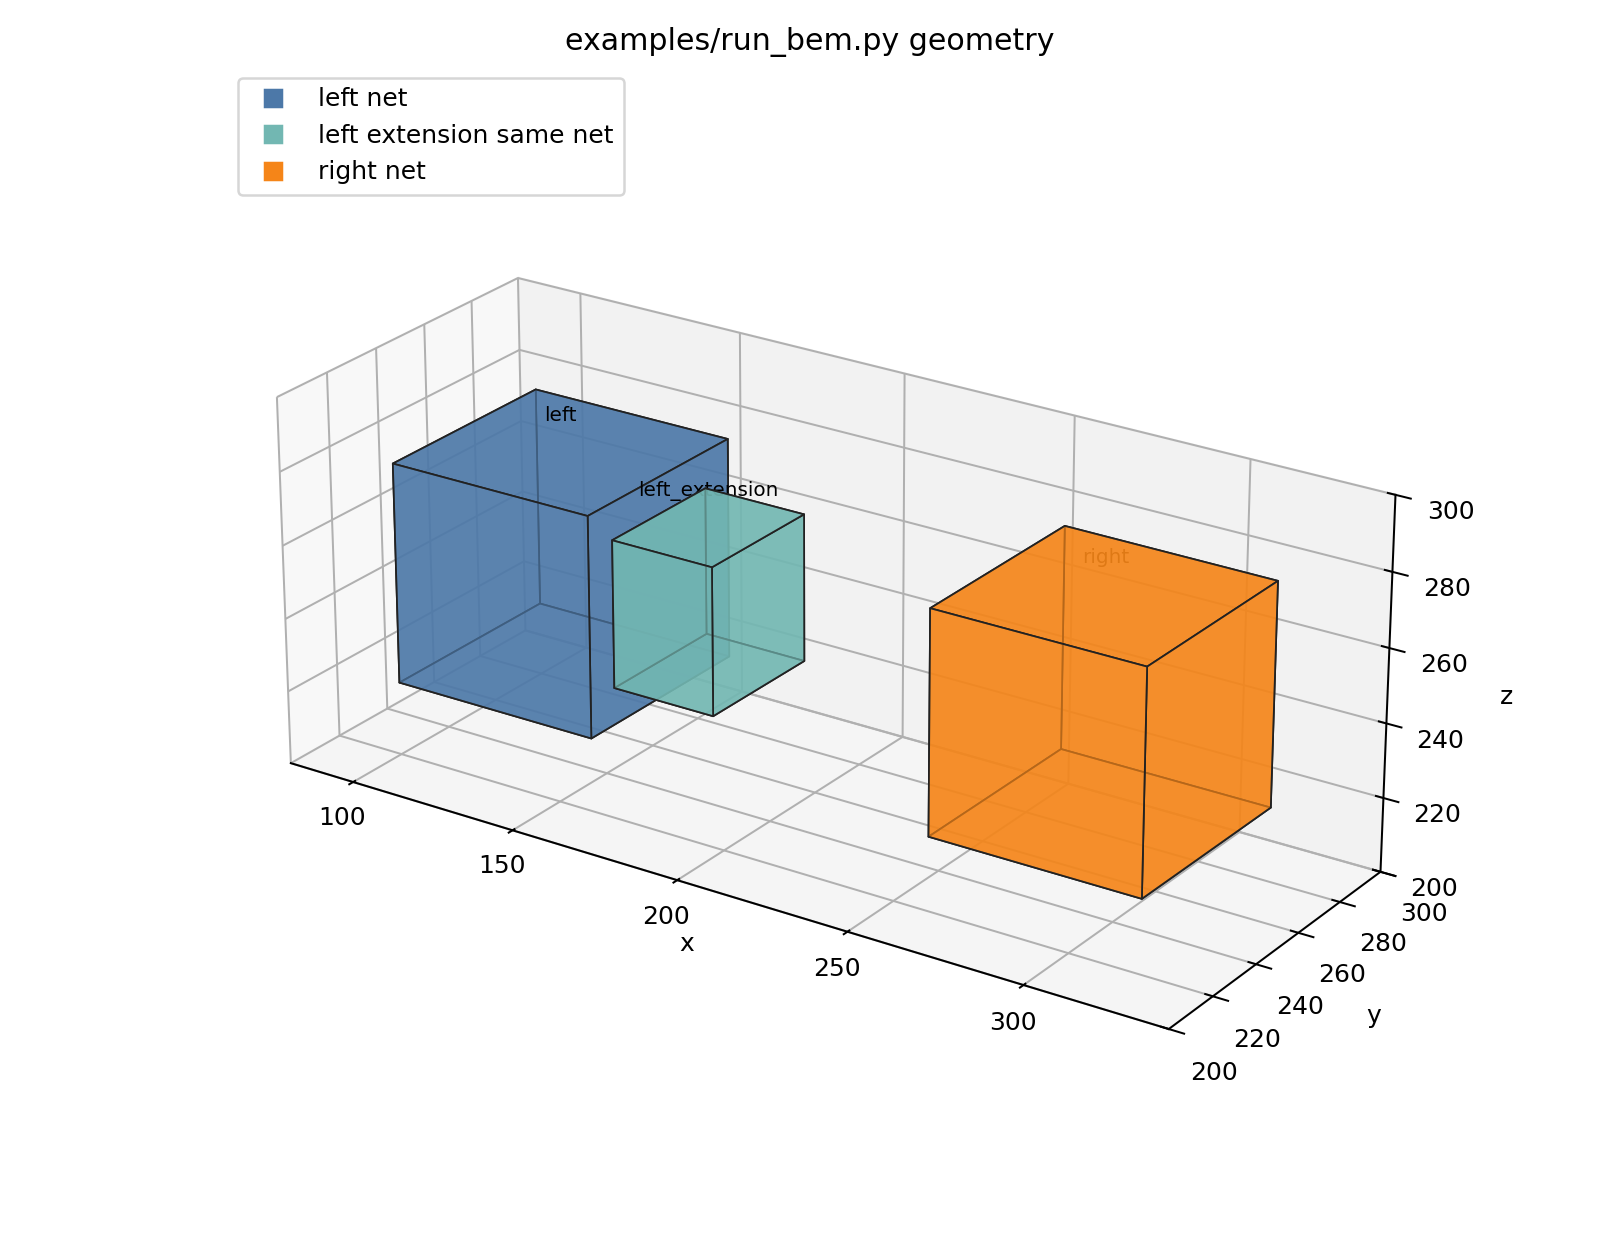
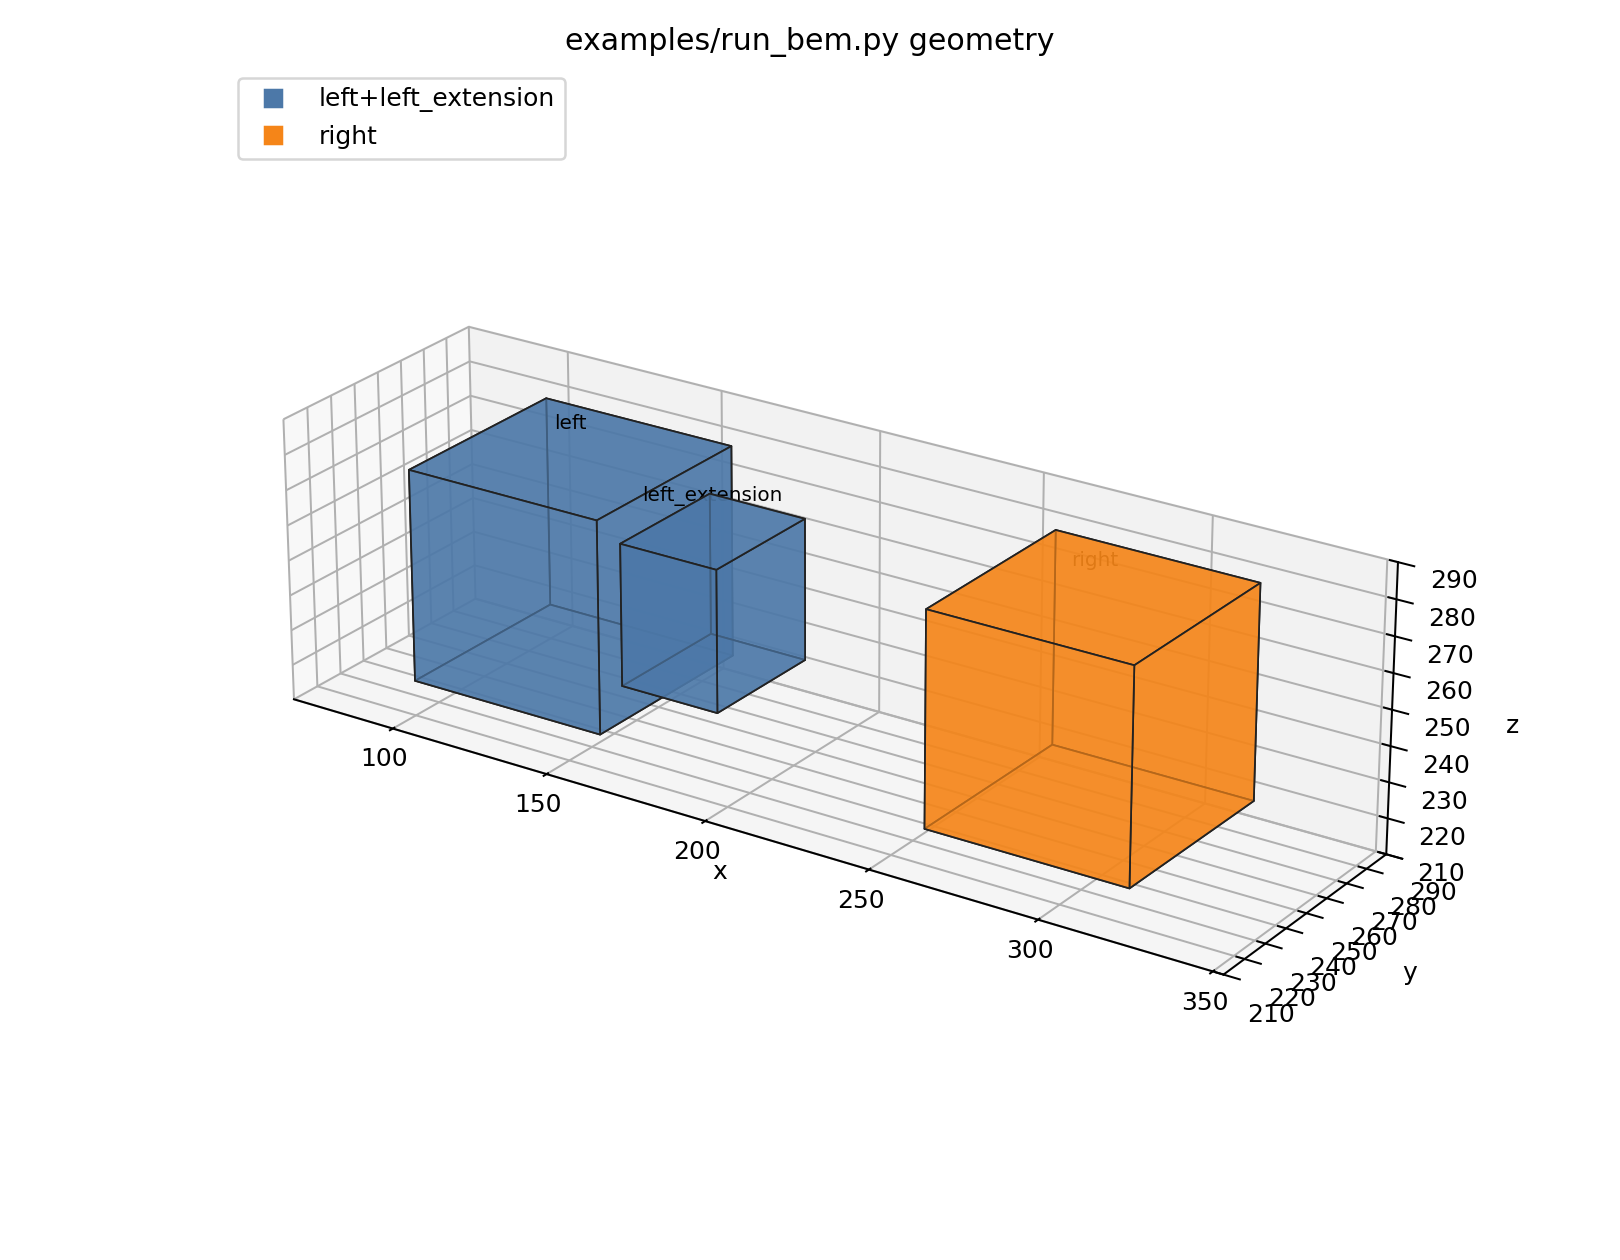
Improve BEM example diagnostics
- solve dense BEM with one multi-RHS linear solve

- store surface panel corners for discretization rendering

- draw geometry from the CapacitanceProblem instance

- add interactive discretization confirmation before matrix assembly

- print BEM unknown counts with and without a meshed outer box

- record unsymmetrized example matrix and asymmetry in tests.log

diff --git a/examples/draw_run_bem_geometry.py b/examples/draw_run_bem_geometry.py
@@ -2,18 +2,24 @@ from __future__ import annotations
 
 from pathlib import Path
 
-import matplotlib
-
-matplotlib.use("Agg")
-
 import matplotlib.pyplot as plt
 from mpl_toolkits.mplot3d.art3d import Poly3DCollection
 
+from capext.geometry import BoxConductor, NetConductor
+from capext.mesh import SurfacePanel, mesh_net_surfaces
+from capext.problem import CapacitanceProblem
 
-BOXES = [
-    ("left", (100.0, 220.0, 220.0), (160.0, 280.0, 280.0), "#4C78A8"),
-    ("left_extension", (160.0, 230.0, 230.0), (190.0, 270.0, 270.0), "#72B7B2"),
-    ("right", (260.0, 220.0, 220.0), (320.0, 280.0, 280.0), "#F58518"),
+
+NET_COLORS = [
+    "#4C78A8",
+    "#F58518",
+    "#54A24B",
+    "#E45756",
+    "#72B7B2",
+    "#B279A2",
+    "#FF9DA6",
+    "#9D755D",
+    "#BAB0AC",
 ]
 
 
@@ -40,49 +46,161 @@ def box_faces(lo: tuple[float, float, float], hi: tuple[float, float, float]) ->
     ]
 
 
-def draw() -> Path:
+def draw(problem: CapacitanceProblem, *, show: bool = True) -> Path:
     output = Path(__file__).with_name("run_bem_geometry.png")
 
     fig = plt.figure(figsize=(9, 7), dpi=180)
     ax = fig.add_subplot(111, projection="3d")
 
-    for name, lo, hi, color in BOXES:
-        faces = box_faces(lo, hi)
-        poly = Poly3DCollection(
-            faces,
-            facecolors=color,
-            edgecolors="#222222",
-            linewidths=0.7,
-            alpha=0.7,
+    all_min = []
+    all_max = []
+    legend_handles = []
+    for net_index, net in enumerate(problem.nets()):
+        color = NET_COLORS[net_index % len(NET_COLORS)]
+        legend_handles.append(
+            plt.Line2D(
+                [0],
+                [0],
+                marker="s",
+                color="w",
+                label=net.name,
+                markerfacecolor=color,
+                markersize=9,
+            )
         )
-        ax.add_collection3d(poly)
-        cx = 0.5 * (lo[0] + hi[0])
-        cy = 0.5 * (lo[1] + hi[1])
-        cz = hi[2] + 7.0
-        ax.text(cx, cy, cz, name, ha="center", va="bottom", fontsize=8)
+        for conductor in net.boxes:
+            box = conductor.box
+            lo = tuple(float(value) for value in box.min_array)
+            hi = tuple(float(value) for value in box.max_array)
+            all_min.append(box.min_array)
+            all_max.append(box.max_array)
 
-    ax.set_xlim(80, 340)
-    ax.set_ylim(200, 300)
-    ax.set_zlim(200, 300)
+            faces = box_faces(lo, hi)
+            poly = Poly3DCollection(
+                faces,
+                facecolors=color,
+                edgecolors="#222222",
+                linewidths=0.7,
+                alpha=0.7,
+            )
+            ax.add_collection3d(poly)
+            cx = 0.5 * (lo[0] + hi[0])
+            cy = 0.5 * (lo[1] + hi[1])
+            cz = hi[2] + 7.0
+            ax.text(cx, cy, cz, conductor.name, ha="center", va="bottom", fontsize=8)
+
+    mins, maxs = _plot_bounds(all_min, all_max)
+    ax.set_xlim(mins[0], maxs[0])
+    ax.set_ylim(mins[1], maxs[1])
+    ax.set_zlim(mins[2], maxs[2])
     ax.set_xlabel("x")
     ax.set_ylabel("y")
     ax.set_zlabel("z")
     ax.set_title("examples/run_bem.py geometry")
     ax.view_init(elev=24, azim=-56)
-    ax.set_box_aspect((260, 100, 100))
+    ax.set_box_aspect(maxs - mins)
+    ax.legend(handles=legend_handles, loc="upper left")
+
+    fig.tight_layout()
+    fig.savefig(output)
+    if show:
+        print("Close the 3D geometry window to continue.")
+        plt.show()
+    return output
+
+
+def draw_discretization(
+    problem: CapacitanceProblem,
+    *,
+    max_panel_size: float,
+    show: bool = True,
+) -> Path:
+    output = Path(__file__).with_name("run_bem_discretization.png")
+    nets = problem.nets()
+    panels = mesh_net_surfaces(nets, max_panel_size=max_panel_size)
+
+    fig = plt.figure(figsize=(9, 7), dpi=180)
+    ax = fig.add_subplot(111, projection="3d")
+
+    all_min = []
+    all_max = []
+    for net in nets:
+        for conductor in net.boxes:
+            all_min.append(conductor.box.min_array)
+            all_max.append(conductor.box.max_array)
+
+    for panel in panels:
+        color = NET_COLORS[panel.net_index % len(NET_COLORS)]
+        poly = Poly3DCollection(
+            [panel.corners],
+            facecolors=color,
+            edgecolors="#202020",
+            linewidths=0.25,
+            alpha=0.72,
+        )
+        ax.add_collection3d(poly)
+
+    mins, maxs = _plot_bounds(all_min, all_max)
+    ax.set_xlim(mins[0], maxs[0])
+    ax.set_ylim(mins[1], maxs[1])
+    ax.set_zlim(mins[2], maxs[2])
+    ax.set_xlabel("x")
+    ax.set_ylabel("y")
+    ax.set_zlabel("z")
+    ax.set_title(f"BEM surface discretization ({len(panels)} unknowns)")
+    ax.view_init(elev=24, azim=-56)
+    ax.set_box_aspect(maxs - mins)
 
     legend_handles = [
-        plt.Line2D([0], [0], marker="s", color="w", label="left net", markerfacecolor="#4C78A8", markersize=9),
-        plt.Line2D([0], [0], marker="s", color="w", label="left extension same net", markerfacecolor="#72B7B2", markersize=9),
-        plt.Line2D([0], [0], marker="s", color="w", label="right net", markerfacecolor="#F58518", markersize=9),
+        plt.Line2D(
+            [0],
+            [0],
+            marker="s",
+            color="w",
+            label=net.name,
+            markerfacecolor=NET_COLORS[index % len(NET_COLORS)],
+            markersize=9,
+        )
+        for index, net in enumerate(nets)
     ]
     ax.legend(handles=legend_handles, loc="upper left")
 
     fig.tight_layout()
     fig.savefig(output)
-    plt.close(fig)
+    if show:
+        print("Close the BEM discretization window to continue.")
+        plt.show()
     return output
 
 
+def count_bem_unknowns(
+    problem: CapacitanceProblem,
+    *,
+    max_panel_size: float,
+    include_physical_outer_box: bool = False,
+) -> int:
+    nets = problem.nets()
+    if include_physical_outer_box:
+        outer = BoxConductor("physical_outer_box", problem.domain)
+        nets = [
+            *nets,
+            NetConductor("physical_outer_box", (outer,)),
+        ]
+    return len(mesh_net_surfaces(nets, max_panel_size=max_panel_size))
+
+
+def _plot_bounds(all_min, all_max):
+    if not all_min:
+        raise ValueError("problem has no conductor boxes to draw")
+
+    import numpy as np
+
+    mins = np.min(np.vstack(all_min), axis=0)
+    maxs = np.max(np.vstack(all_max), axis=0)
+    span = maxs - mins
+    padding = np.maximum(span * 0.15, 10.0)
+    return mins - padding, maxs + padding
+
+
 if __name__ == "__main__":
-    print(draw())
+    raise SystemExit("Call draw(problem) from examples/run_bem.py.")

diff --git a/examples/run_bem.py b/examples/run_bem.py
@@ -2,11 +2,14 @@ from __future__ import annotations
 
 import numpy as np
 
+from draw_run_bem_geometry import count_bem_unknowns, draw, draw_discretization
+
 from capext.problem import CapacitanceProblem
 from capext.solvers import DenseBEMSolver
 
 
 def main() -> None:
+    max_panel_size = 20.0
     problem = CapacitanceProblem.from_boxes(
         [
             ("left", (100.0, 220.0, 220.0), (160.0, 280.0, 280.0)),
@@ -15,7 +18,24 @@ def main() -> None:
             ("left_extension", (160.0, 230.0, 230.0), (190.0, 270.0, 270.0)),
         ],
     )
-    solver = DenseBEMSolver(max_panel_size=20.0, add_reference_node=True)
+    draw(problem, show=True)
+    draw_discretization(problem, max_panel_size=max_panel_size, show=True)
+
+    unknowns_without_outer_box = count_bem_unknowns(
+        problem,
+        max_panel_size=max_panel_size,
+        include_physical_outer_box=False,
+    )
+    unknowns_with_outer_box = count_bem_unknowns(
+        problem,
+        max_panel_size=max_panel_size,
+        include_physical_outer_box=True,
+    )
+    print("BEM unknowns without physical outer box:", unknowns_without_outer_box)
+    print("BEM unknowns with meshed physical outer box:", unknowns_with_outer_box)
+    print("Current reference-node enclosure adds no BEM unknowns.")
+
+    solver = DenseBEMSolver(max_panel_size=max_panel_size, add_reference_node=True)
     result = solver.solve(problem)
 
     np.set_printoptions(precision=6, suppress=False)

diff --git a/src/capext/mesh/box_surface.py b/src/capext/mesh/box_surface.py
@@ -13,6 +13,7 @@ class SurfacePanel:
     normal: np.ndarray
     area: float
     net_index: int
+    corners: np.ndarray
 
 
 def mesh_net_surfaces(
@@ -33,11 +34,17 @@ def mesh_net_surfaces(
                     face_value = box.min_array[axis] if side == "min" else box.max_array[axis]
                     normal = np.zeros(3)
                     normal[axis] = normal_sign
-                    for center, area in _face_panels(box, axis, face_value, net_boxes, max_panel_size):
+                    for center, area, corners in _face_panels(box, axis, face_value, net_boxes, max_panel_size):
                         probe = center + normal * max(tol * 16.0, max_panel_size * 1e-9)
                         if _inside_any_box(probe, net_boxes, tol=tol):
                             continue
-                        panel = SurfacePanel(center=center, normal=normal.copy(), area=area, net_index=net_index)
+                        panel = SurfacePanel(
+                            center=center,
+                            normal=normal.copy(),
+                            area=area,
+                            net_index=net_index,
+                            corners=corners,
+                        )
                         panels_by_key[_panel_key(panel)] = panel
     return list(panels_by_key.values())
 
@@ -48,7 +55,7 @@ def _face_panels(
     face_value: float,
     net_boxes: list[AxisAlignedBox],
     max_panel_size: float,
-) -> list[tuple[np.ndarray, float]]:
+) -> list[tuple[np.ndarray, float, np.ndarray]]:
     axes = [idx for idx in range(3) if idx != axis]
     a0, a1 = axes
     breaks0 = _axis_breaks(box.min_array[a0], box.max_array[a0], net_boxes, a0, max_panel_size)
@@ -61,7 +68,14 @@ def _face_panels(
             center[axis] = face_value
             center[a0] = 0.5 * (lo0 + hi0)
             center[a1] = 0.5 * (lo1 + hi1)
-            panels.append((center, float((hi0 - lo0) * (hi1 - lo1))))
+            corners = []
+            for c0, c1 in ((lo0, lo1), (hi0, lo1), (hi0, hi1), (lo0, hi1)):
+                corner = np.zeros(3)
+                corner[axis] = face_value
+                corner[a0] = c0
+                corner[a1] = c1
+                corners.append(corner)
+            panels.append((center, float((hi0 - lo0) * (hi1 - lo1)), np.asarray(corners)))
     return panels
 
 

diff --git a/src/capext/solvers/bem.py b/src/capext/solvers/bem.py
@@ -73,13 +73,9 @@ class DenseBEMSolver(CapacitanceSolver):
         panel_areas = np.asarray([panel.area for panel in panels], dtype=float)
 
         net_count = len(nets)
-        capacitance = np.zeros((net_count, net_count), dtype=float)
-        for driven_net in range(net_count):
-            potentials = (panel_net_indices == driven_net).astype(float)
-            sigma = np.linalg.solve(influence, potentials)
-            for net_index in range(net_count):
-                mask = panel_net_indices == net_index
-                capacitance[net_index, driven_net] = float(np.sum(sigma[mask] * panel_areas[mask]))
+        panel_to_net = np.eye(net_count, dtype=float)[panel_net_indices]
+        sigma = np.linalg.solve(influence, panel_to_net)
+        capacitance = panel_to_net.T @ (sigma * panel_areas[:, np.newaxis])
 
         if self.symmetrize:
             capacitance = 0.5 * (capacitance + capacitance.T)